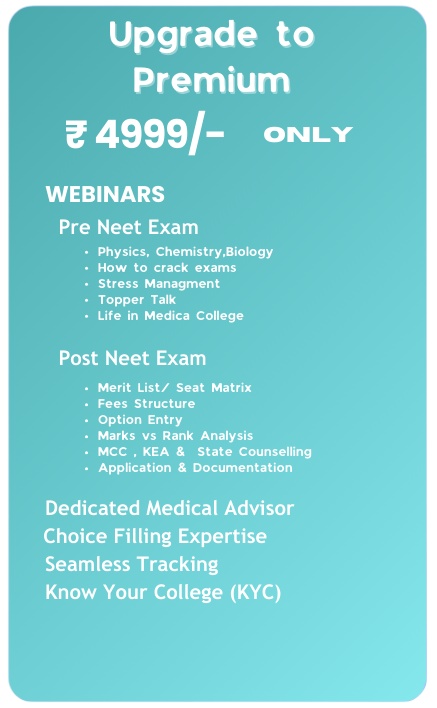
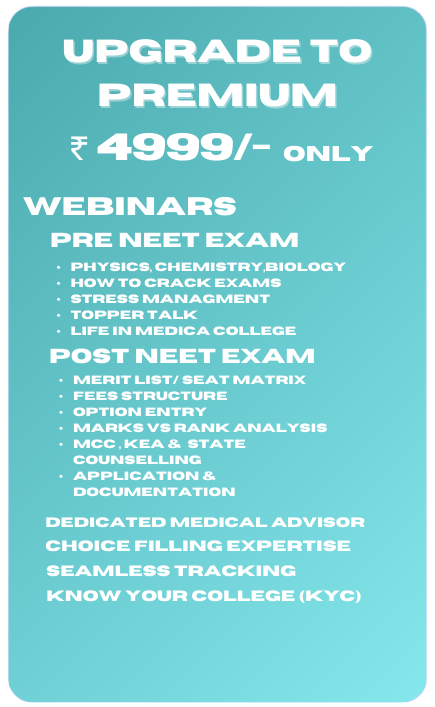
Buy Now Font Change

Changed region(s): [[0.0598, 0.0, 0.8667, 0.8713], [0.0299, 0.0, 0.9862, 0.9958]]

diff --git a/src/Pages/WebinarUser/Webinar.jsx b/src/Pages/WebinarUser/Webinar.jsx
@@ -67,13 +67,11 @@ const Webinar = () => {
             <img src={Doctor} className={styles.DOC} alt="" />
           </div>
           <div>
-
-            {webData ? (
-              webData.statusFree === "active" ? (
+            {
+              secureLocalStorage.getItem('type') === 'free' ?
                 <>
-                  {/* Active Conditon USERS */}
-                  {
-                    secureLocalStorage.getItem('type') === 'free' ?
+                  {webData ? (
+                    webData.statusFree === "active" ? (
                       <>
                         <div className={styles.Webinar2}>
                           <div>
@@ -95,46 +93,47 @@ const Webinar = () => {
                           </div>
                         </div>
                       </>
-                      :
+                    ) : (
                       <>
+                        {/* Inative condition */}
+                        <div className={styles.Webinar2}>
+                          <div>
+                            <img src={schedule} width={60} alt="" />
+                          </div>
+                          <div>
+                            <div className={styles.clss}>
+                              <h3>Stay Informed About Upcoming Webinars!</h3>
+                              <h4>We don't currently have any webinars scheduled, but we host informative sessions regularly.
+                              </h4><h4>
+                                To stay up-to-date on future webinars:</h4>
+                              <ul>
+                                <li>Visit our website regularly.</li>
+                                <li>Sign up for our email notifications.</li>
+                                <li>Follow us on social media.</li></ul>
+                              We'll also reach out directly via email, contact, or WhatsApp if a new webinar is planned.
+                              <br />
+                              This way, you won't miss out on the valuable insights we share in our webinars!
+                            </div>
+                          </div>
+                        </div>
                       </>
-                  }
+                    )
+                  ) : (
+                    <div>Loading...</div>
+                  )}
                 </>
-              ) : (
+                :
                 <>
-                  {/* Inative condition */}
-                  <div className={styles.Webinar2}>
-                    <div>
-                      <img src={schedule} width={60} alt="" />
-                    </div>
-                    <div>
-                      <div className={styles.clss}>
-                        <h3>Stay Informed About Upcoming Webinars!</h3>
-                        <h4>We don't currently have any webinars scheduled, but we host informative sessions regularly.
-                        </h4><h4>
-                          To stay up-to-date on future webinars:</h4>
-                        <ul>
-                          <li>Visit our website regularly.</li>
-                          <li>Sign up for our email notifications.</li>
-                          <li>Follow us on social media.</li></ul>
-                        We'll also reach out directly via email, contact, or WhatsApp if a new webinar is planned.
-                        <br />
-                        This way, you won't miss out on the valuable insights we share in our webinars!
-                      </div>
-                    </div>
-                  </div>
                 </>
-              )
-            ) : (
-              <div>Loading...</div>
-            )}
+            }
 
-            {webData ? (
-              webData.statusPremium === "active" ? (
+            {/* Active Conditon PREMIUM */}
+            {
+              secureLocalStorage.getItem('type') === 'premium' ?
                 <>
-                  {/* Active Conditon PREMIUM */}
-                  {
-                    secureLocalStorage.getItem('type') === 'premium' ?
+
+                  {webData ? (
+                    webData.statusPremium === "active" ? (
                       <>
                         <div className={styles.Webinar2}>
                           <div>
@@ -156,38 +155,39 @@ const Webinar = () => {
                           </div>
                         </div>
                       </>
-                      :
-                      <></>
-                  }
+                    ) : (
+                      <>
+                        {/* Inative condition */}
+                        <div className={styles.Webinar2}>
+                          <div>
+                            <img src={schedule} width={60} alt="" />
+                          </div>
+                          <div>
+                            <div className={styles.clss}>
+                              <h3>Stay Informed About Upcoming Webinars!</h3>
+                              <h4>We don't currently have any webinars scheduled, but we host informative sessions regularly.
+                              </h4><h4>
+                                To stay up-to-date on future webinars:</h4>
+                              <ul>
+                                <li>Visit our website regularly.</li>
+                                <li>Sign up for our email notifications.</li>
+                                <li>Follow us on social media.</li></ul>
+                              We'll also reach out directly via email, contact, or WhatsApp if a new webinar is planned.
+                              <br />
+                              This way, you won't miss out on the valuable insights we share in our webinars!
+                            </div>
+                          </div>
+                        </div>
+                      </>
+                    )
+                  ) : (
+                    <div>Loading...</div>
+                  )}
                 </>
-              ) : (
-                <>
-                  {/* Inative condition */}
-                  <div className={styles.Webinar2}>
-                    <div>
-                      <img src={schedule} width={60} alt="" />
-                    </div>
-                    <div>
-                      <div className={styles.clss}>
-                        <h3>Stay Informed About Upcoming Webinars!</h3>
-                        <h4>We don't currently have any webinars scheduled, but we host informative sessions regularly.
-                        </h4><h4>
-                          To stay up-to-date on future webinars:</h4>
-                        <ul>
-                          <li>Visit our website regularly.</li>
-                          <li>Sign up for our email notifications.</li>
-                          <li>Follow us on social media.</li></ul>
-                        We'll also reach out directly via email, contact, or WhatsApp if a new webinar is planned.
-                        <br />
-                        This way, you won't miss out on the valuable insights we share in our webinars!
-                      </div>
-                    </div>
-                  </div>
-                </>
-              )
-            ) : (
-              <div>Loading...</div>
-            )}
+                :
+                <></>
+            }
+
 
 
           </div>

diff --git a/src/Pages/WebinarUser/Webinar.module.css b/src/Pages/WebinarUser/Webinar.module.css
@@ -60,6 +60,7 @@
   display: flex;
   padding: 10 auto;
   margin-left: 5%;
+  align-items: center;
 }
 
 .Webinar2 {
